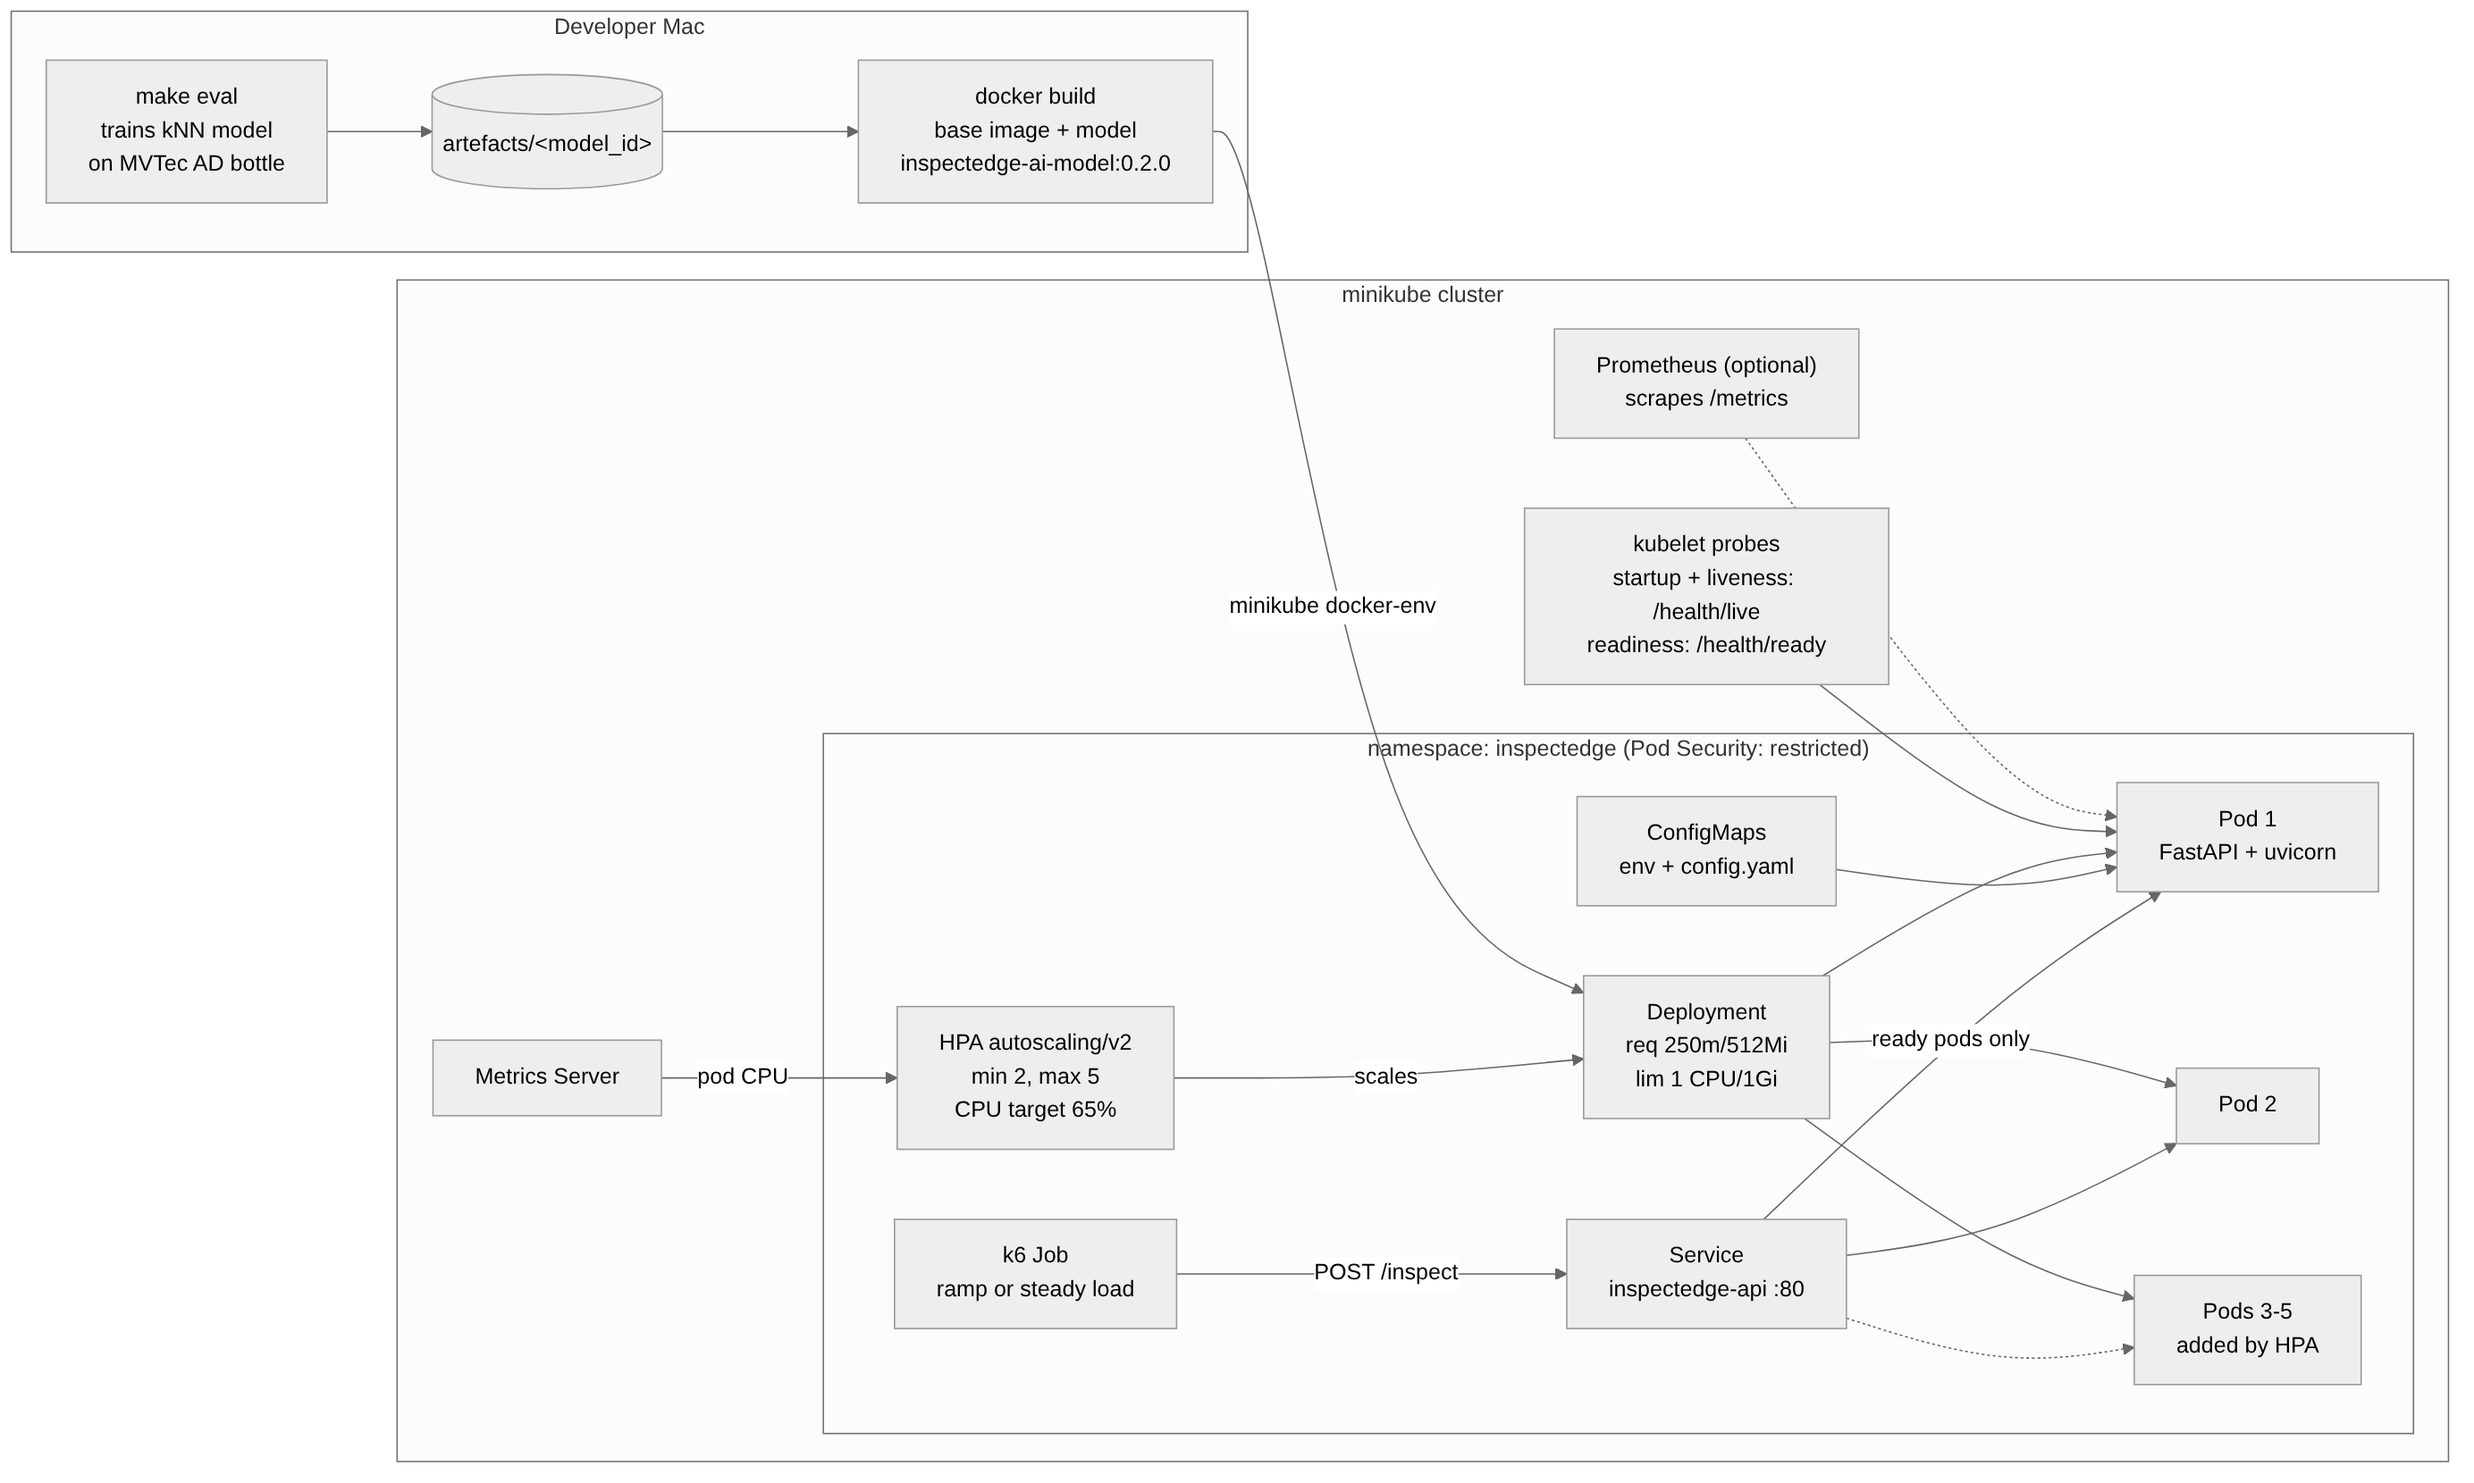
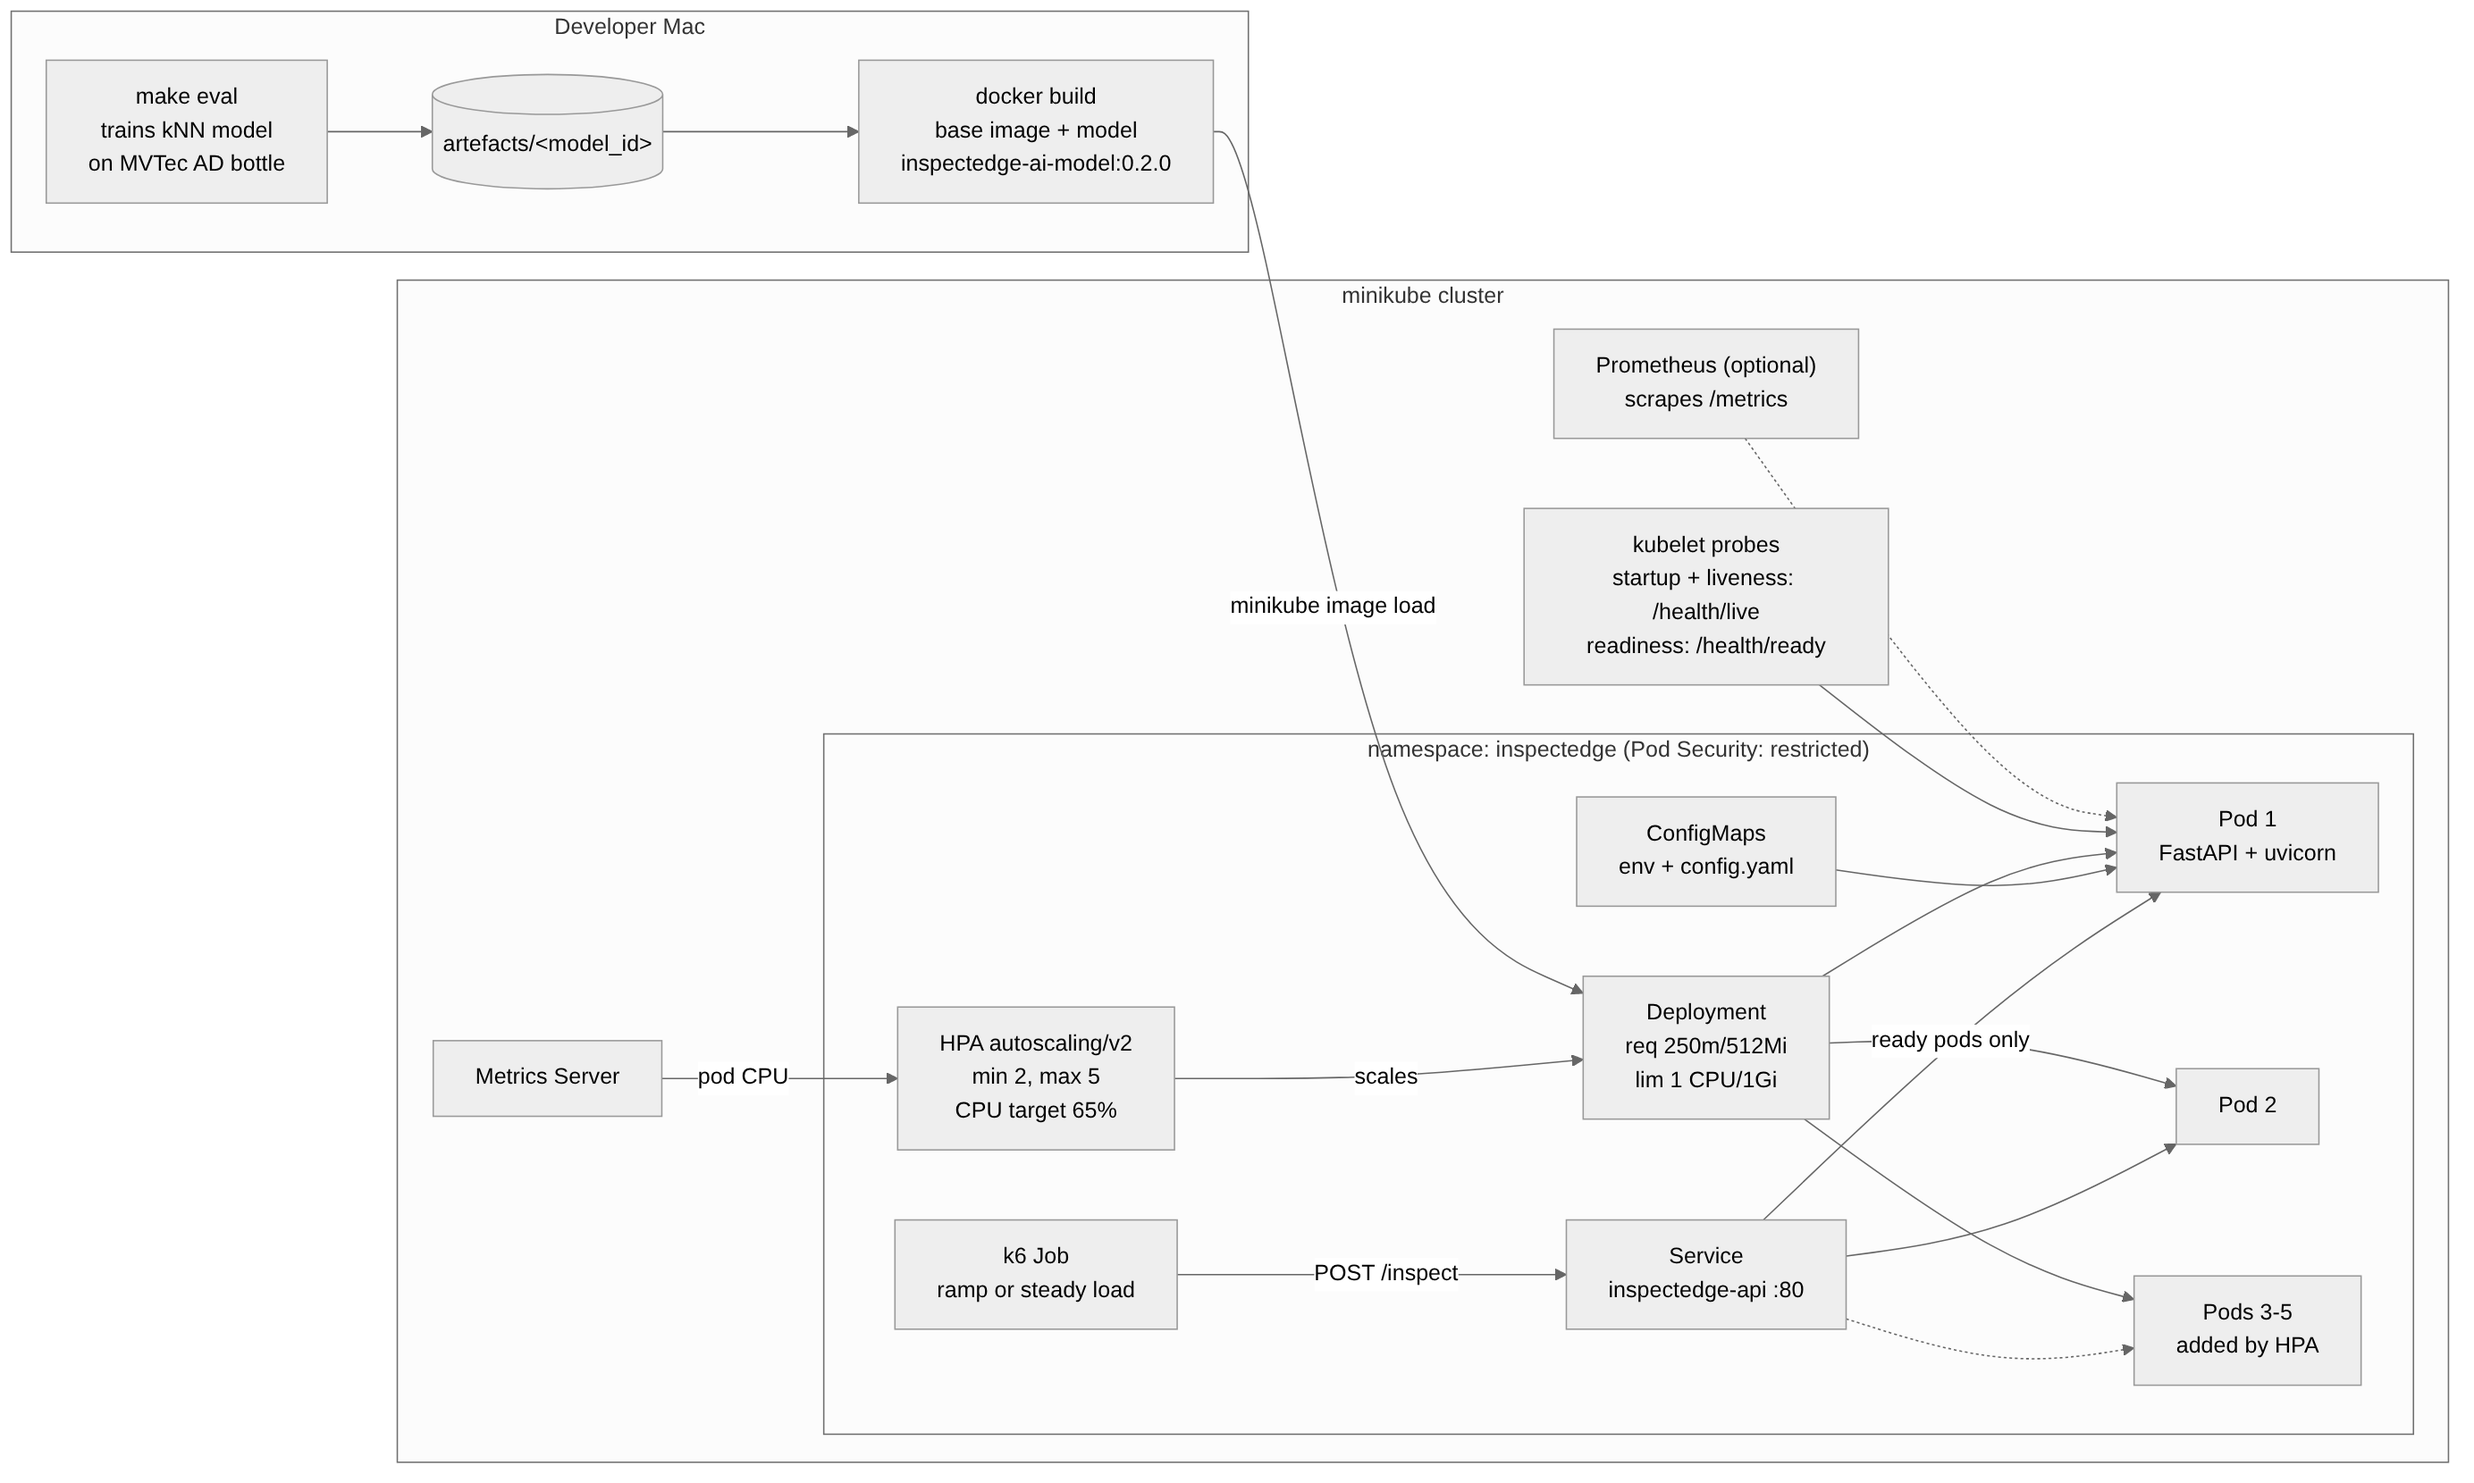
Build images with local Docker and load into minikube; retry slow pip downloads
- build-images.sh: build with Docker Desktop, then `minikube image load`
  (minikube's default containerd runtime does not support docker-env builds)
- find model artefacts under artefacts/models/ as written by run_eval
- Dockerfile: PIP_DEFAULT_TIMEOUT=120 and PIP_RETRIES=10 for slow connections

Claude-Session: https://claude.ai/code/session_01FYRr76g7h1kpaob4msxgFB

diff --git a/docs/kubernetes.md b/docs/kubernetes.md
@@ -54,7 +54,7 @@ make prepare eval                      # prints: Artefact: artefacts/<model_id>
 
 ```bash
 scripts/k8s/cluster-up.sh       # minikube (4 CPU, 6 GB) + Metrics Server
-scripts/k8s/build-images.sh     # builds base + model image inside minikube (no registry)
+scripts/k8s/build-images.sh     # builds base + model image, loads it into minikube (no registry)
 scripts/k8s/deploy.sh           # kubectl apply -k k8s/, waits for Ready pods and HPA metrics
 scripts/k8s/smoke-test.sh       # health, readiness, metrics, one real /inspect
 scripts/k8s/load-test.sh        # ~7.5 min ramp + scale-down watch → reports/k8s/<ts>-load/
